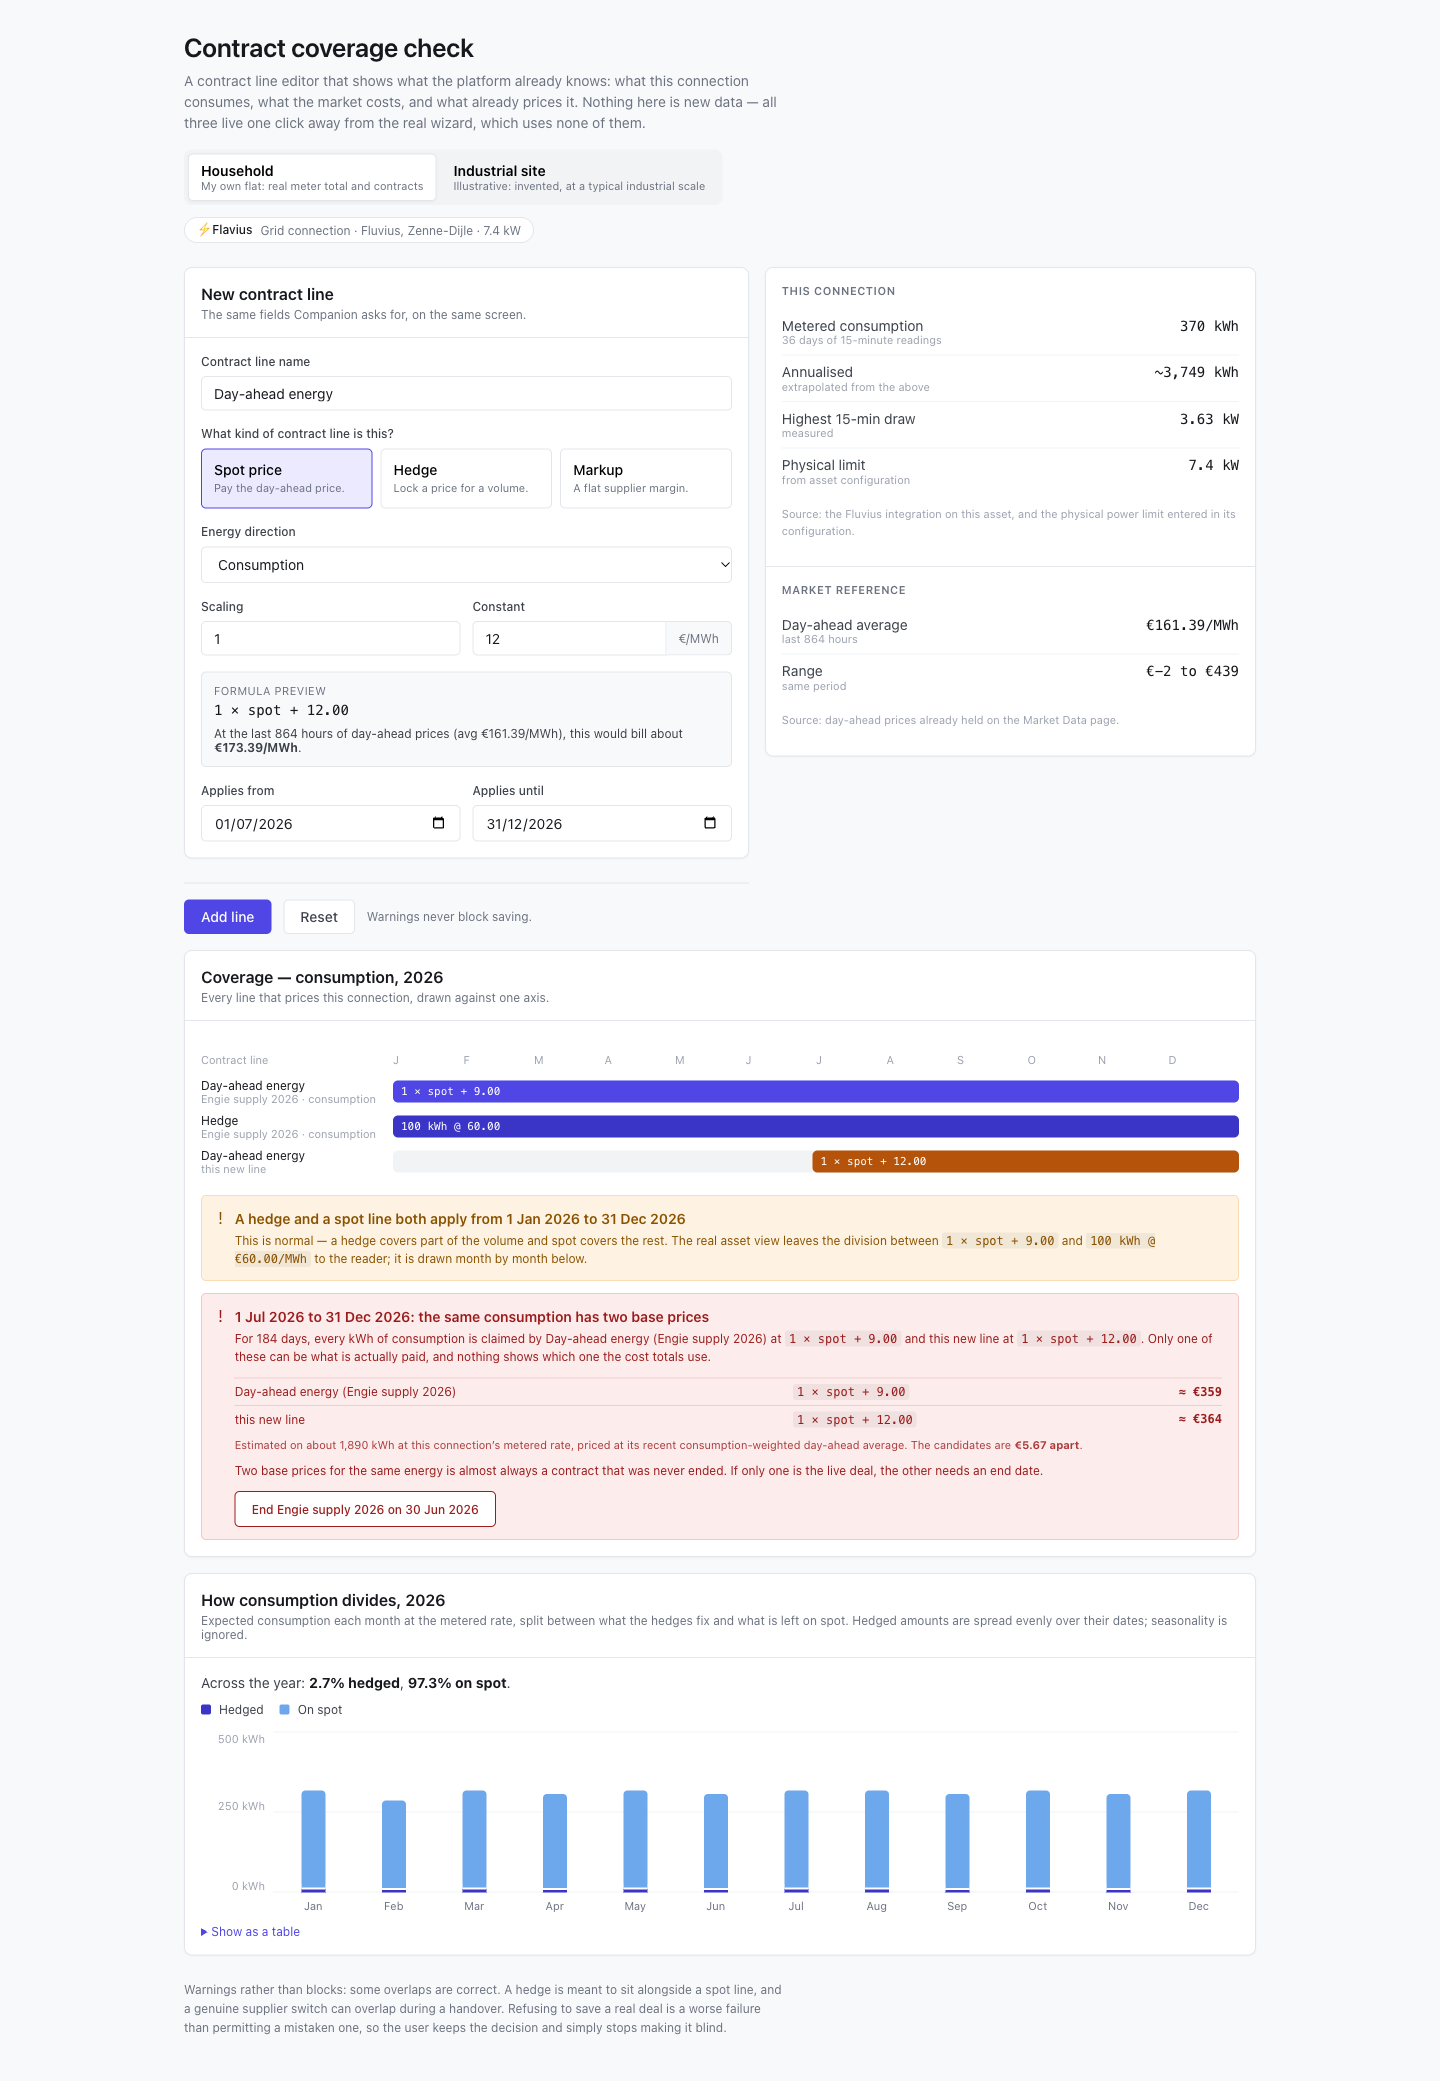
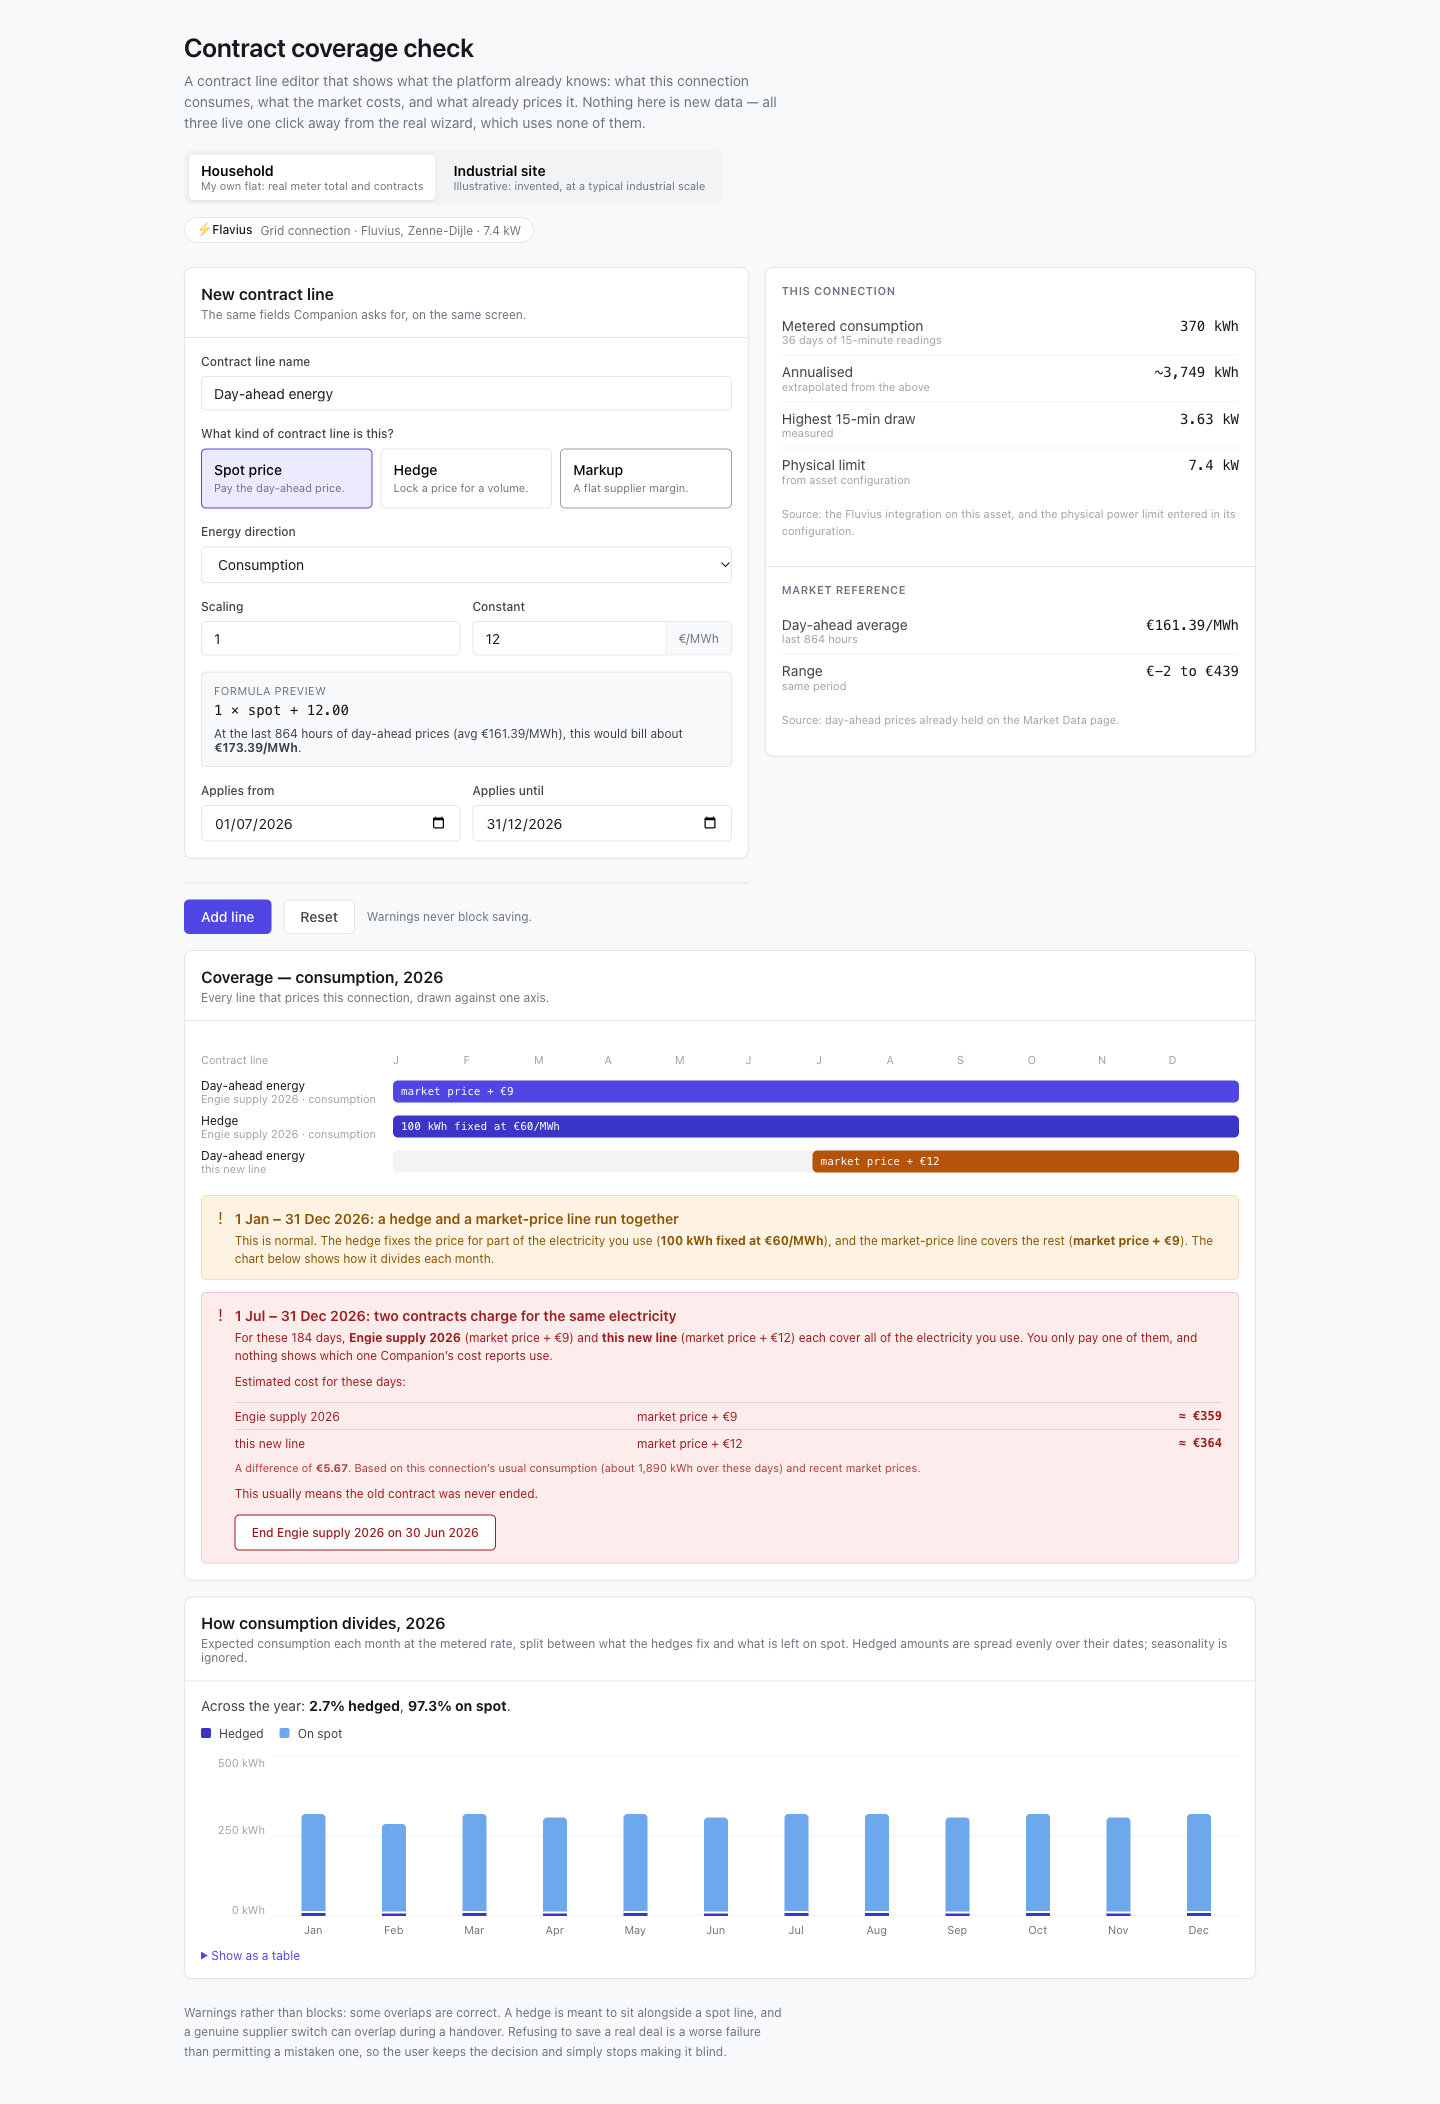
feat: describe prices and conflicts in plain language
Write prices as "market price + €9" instead of "1 × spot + 9.00" in
warnings and on the timeline, and reword the warnings in everyday terms.

diff --git a/src/components/ConflictNotice.tsx b/src/components/ConflictNotice.tsx
@@ -1,13 +1,13 @@
 import { Gap, daysInPeriod } from "../domain/coverage";
 import { PricedOverlap } from "../domain/cost";
 import { Ending, contractOf, suggestEnding } from "../domain/contracts";
-import { Contract, ContractLine } from "../domain/types";
-import { formatEur as eur, formatKwh as kwh } from "./format";
+import { Contract, ContractLine, EnergyDirection, Period } from "../domain/types";
+import { formatEur as eur, formatKwh as kwh, plainPrice } from "./format";
 
 /**
  * Conflict and gap warnings.
  *
- * Three decisions worth stating, because they are the product judgement rather
+ * Four decisions worth stating, because they are the product judgement rather
  * than the code:
  *
  * 1. These are warnings, not errors. Nothing is blocked. Some overlaps are
@@ -22,39 +22,48 @@ import { formatEur as eur, formatKwh as kwh } from "./format";
  * 3. A hedge overlapping a spot line is described differently from two spot
  *    lines overlapping, because they are different situations. The first is
  *    normal but unclear; the second is almost certainly wrong.
+ *
+ * 4. The wording is everyday language: "market price + €9", "charge for the
+ *    same electricity". A warning that needs the contract notation to be
+ *    understood only helps people who would not have made the mistake.
  */
 
-function describeDate(iso: string): string {
+function describeDate(iso: string, withYear = true): string {
   return new Date(`${iso}T00:00:00Z`).toLocaleDateString("en-GB", {
     day: "numeric",
     month: "short",
-    year: "numeric",
+    ...(withYear ? { year: "numeric" } : {}),
     timeZone: "UTC",
   });
 }
 
-function lineLabel(
+/** "1 Jul – 31 Dec 2026", with the year once when both ends share it. */
+function describeRange(period: Period): string {
+  const sameYear = period.from.slice(0, 4) === period.to.slice(0, 4);
+  return `${describeDate(period.from, !sameYear)} – ${describeDate(period.to)}`;
+}
+
+function contractName(
   line: ContractLine,
   draftId: string,
   contracts: Contract[],
 ): string {
   if (line.id === draftId) return "this new line";
-  const contract = contractOf(contracts, line.id);
-  return contract ? `${line.name} (${contract.name})` : line.name;
+  return contractOf(contracts, line.id)?.name ?? line.name;
 }
 
-function priceOf(line: ContractLine): string {
-  if (line.type === "spot") {
-    return `${line.scaling ?? 1} × spot + ${(line.constant ?? 0).toFixed(2)}`;
-  }
-  if (line.type === "hedge") {
-    return `${(line.hedgeVolume ?? 0).toLocaleString("en-GB", {
-      maximumFractionDigits: 1,
-    })} ${line.hedgeVolumeUnit ?? "kWh"} @ €${(
-      line.hedgePrice ?? 0
-    ).toFixed(2)}/MWh`;
-  }
-  return `+€${(line.constant ?? 0).toFixed(2)}/MWh`;
+function electricity(direction: EnergyDirection): string {
+  return direction === "consumption"
+    ? "the electricity you use"
+    : "the electricity you feed into the grid";
+}
+
+/** "A, B and C" */
+function listOf(items: React.ReactNode[]): React.ReactNode[] {
+  return items.flatMap((item, i) => [
+    i === 0 ? "" : i === items.length - 1 ? " and " : ", ",
+    item,
+  ]);
 }
 
 interface Props {
@@ -78,12 +87,10 @@ export function ConflictNotice({
       <div className="notice notice--ok">
         <span className="notice__icon">✓</span>
         <div>
-          <p className="notice__title">
-            No competing prices or uncovered periods
-          </p>
+          <p className="notice__title">Every day has exactly one price</p>
           <p className="notice__body">
-            Every day in this window has exactly one base price for
-            consumption.
+            No two contracts charge for the same electricity, and no day is
+            left without a price.
           </p>
         </div>
       </div>
@@ -94,74 +101,70 @@ export function ConflictNotice({
     <>
       {overlaps.map((overlap, i) => {
         const spotLines = overlap.lines.filter((l) => l.type === "spot");
-        const hedgeOnly =
-          spotLines.length < 2 && overlap.lines.some((l) => l.type === "hedge");
+        const hedgeLines = overlap.lines.filter((l) => l.type === "hedge");
+        const hedgeOnly = spotLines.length < 2 && hedgeLines.length > 0;
         const ending = hedgeOnly ? null : suggestEnding(overlap);
+        const name = (l: ContractLine) => contractName(l, draftId, contracts);
+
+        if (hedgeOnly) {
+          return (
+            <div key={`o-${i}`} className="notice notice--warn">
+              <span className="notice__icon">!</span>
+              <div>
+                <p className="notice__title">
+                  {describeRange(overlap.period)}: a hedge and a market-price
+                  line run together
+                </p>
+                <p className="notice__body">
+                  This is normal. The hedge fixes the price for part of{" "}
+                  {electricity(overlap.direction)} (
+                  {listOf(hedgeLines.map((l) => <strong key={l.id}>{plainPrice(l)}</strong>))}
+                  ), and the market-price line covers the rest (
+                  {listOf(spotLines.map((l) => <strong key={l.id}>{plainPrice(l)}</strong>))}
+                  ). The chart below shows how it divides each month.
+                </p>
+              </div>
+            </div>
+          );
+        }
 
         return (
-          <div
-            key={`o-${i}`}
-            className={hedgeOnly ? "notice notice--warn" : "notice notice--danger"}
-          >
+          <div key={`o-${i}`} className="notice notice--danger">
             <span className="notice__icon">!</span>
             <div>
               <p className="notice__title">
-                {hedgeOnly
-                  ? `A hedge and a spot line both apply from ${describeDate(
-                      overlap.period.from,
-                    )} to ${describeDate(overlap.period.to)}`
-                  : `${describeDate(overlap.period.from)} to ${describeDate(
-                      overlap.period.to,
-                    )}: the same consumption has ${
-                      spotLines.length === 2
-                        ? "two base prices"
-                        : `${spotLines.length} base prices`
-                    }`}
+                {describeRange(overlap.period)}:{" "}
+                {spotLines.length === 2 ? "two" : spotLines.length} contracts
+                charge for the same electricity
               </p>
               <p className="notice__body">
-                {hedgeOnly ? (
-                  <>
-                    This is normal — a hedge covers part of the volume and spot
-                    covers the rest. The real asset view leaves the division
-                    between{" "}
-                    {overlap.lines.map((l, idx) => (
-                      <span key={l.id}>
-                        {idx > 0 && " and "}
-                        <code>{priceOf(l)}</code>
-                      </span>
-                    ))}{" "}
-                    to the reader; it is drawn month by month below.
-                  </>
-                ) : (
-                  <>
-                    For {daysInPeriod(overlap.period)} days, every kWh of{" "}
-                    {overlap.direction} is claimed by{" "}
-                    {spotLines.map((l, idx) => (
-                      <span key={l.id}>
-                        {idx > 0 && (idx === spotLines.length - 1 ? " and " : ", ")}
-                        {lineLabel(l, draftId, contracts)} at{" "}
-                        <code>{priceOf(l)}</code>
-                      </span>
-                    ))}
-                    . Only one of these can be what is actually paid, and
-                    nothing shows which one the cost totals use.
-                  </>
-                )}
+                For these {daysInPeriod(overlap.period)} days,{" "}
+                {listOf(
+                  spotLines.map((l) => (
+                    <span key={l.id}>
+                      <strong>{name(l)}</strong> ({plainPrice(l)})
+                    </span>
+                  )),
+                )}{" "}
+                each cover all of {electricity(overlap.direction)}. You only
+                pay one of them, and nothing shows which one Companion’s cost
+                reports use.
               </p>
 
-              {!hedgeOnly && overlap.cost && (
+              {overlap.cost && (
                 <>
+                  <p className="notice__body">
+                    Estimated cost for these days:
+                  </p>
                   <table className="costs">
                     <tbody>
                       {overlap.cost.lines.map((c) => {
                         const line = spotLines.find((l) => l.id === c.lineId);
                         return (
                           <tr key={c.lineId}>
-                            <td>
-                              {line ? lineLabel(line, draftId, contracts) : c.lineId}
-                            </td>
+                            <td>{line ? name(line) : c.lineId}</td>
                             <td className="costs__formula">
-                              {line && <code>{priceOf(line)}</code>}
+                              {line && plainPrice(line)}
                             </td>
                             <td className="costs__eur">≈ {eur(c.costEur)}</td>
                           </tr>
@@ -170,21 +173,18 @@ export function ConflictNotice({
                     </tbody>
                   </table>
                   <p className="notice__fine">
-                    Estimated on about {kwh(overlap.cost.expectedKwh)} at this
-                    connection’s metered rate, priced at its recent
-                    consumption-weighted day-ahead average. The candidates are{" "}
-                    <strong>{eur(overlap.cost.spreadEur)} apart</strong>.
+                    A difference of{" "}
+                    <strong>{eur(overlap.cost.spreadEur)}</strong>. Based on
+                    this connection’s usual consumption (about{" "}
+                    {kwh(overlap.cost.expectedKwh)} over these days) and recent
+                    market prices.
                   </p>
                 </>
               )}
 
-              {!hedgeOnly && (
-                <p className="notice__body">
-                  Two base prices for the same energy is almost always a
-                  contract that was never ended. If only one is the live deal,
-                  the other needs an end date.
-                </p>
-              )}
+              <p className="notice__body">
+                This usually means the old contract was never ended.
+              </p>
 
               {ending && (
                 <button
@@ -210,14 +210,13 @@ export function ConflictNotice({
           <span className="notice__icon">!</span>
           <div>
             <p className="notice__title">
-              {describeDate(gap.period.from)} to {describeDate(gap.period.to)}{" "}
-              has no price
+              {describeRange(gap.period)}: no contract prices this electricity
             </p>
             <p className="notice__body">
-              {daysInPeriod(gap.period)} days of {gap.direction} are not covered
-              by any spot or hedge line. The cost engine has nothing to compute
-              for those days, so they will be missing from cost totals rather
-              than flagged in them.
+              For these {daysInPeriod(gap.period)} days, no market-price or
+              hedge line covers {electricity(gap.direction)}. Companion has
+              nothing to calculate a cost from, so these days are left out of
+              cost totals without a warning.
             </p>
           </div>
         </div>

diff --git a/src/components/CoverageTimeline.tsx b/src/components/CoverageTimeline.tsx
@@ -1,6 +1,7 @@
 import { Contract, ContractLine, Period } from "../domain/types";
 import { daysInPeriod, periodBounds } from "../domain/coverage";
 import { contractOf } from "../domain/contracts";
+import { plainPrice } from "./format";
 
 /**
  * Coverage over time.
@@ -33,20 +34,6 @@ function spanClass(line: ContractLine, isNew: boolean): string {
   if (line.type === "hedge") return "timeline__span timeline__span--hedge";
   if (line.type === "markup") return "timeline__span timeline__span--markup";
   return "timeline__span";
-}
-
-function priceLabel(line: ContractLine): string {
-  if (line.type === "spot") {
-    return `${line.scaling ?? 1} × spot + ${(line.constant ?? 0).toFixed(2)}`;
-  }
-  if (line.type === "hedge") {
-    return `${(line.hedgeVolume ?? 0).toLocaleString("en-GB", {
-      maximumFractionDigits: 1,
-    })} ${line.hedgeVolumeUnit ?? "kWh"} @ ${(
-      line.hedgePrice ?? 0
-    ).toFixed(2)}`;
-  }
-  return `+${(line.markup ?? line.constant ?? 0).toFixed(2)} €/MWh`;
 }
 
 interface Props {
@@ -104,7 +91,7 @@ export function CoverageTimeline({
                     line.period,
                   )} days)`}
                 >
-                  {width > 0.22 ? priceLabel(line) : ""}
+                  {width > 0.22 ? plainPrice(line) : ""}
                 </div>
               )}
             </div>

diff --git a/src/components/format.ts b/src/components/format.ts
@@ -1,4 +1,37 @@
+import { ContractLine } from "../domain/types";
+
 /** Display formatting shared by the components. */
+
+/** €9, or €6.50 when there are cents. */
+function euros(n: number): string {
+  return Number.isInteger(n) ? `€${n}` : `€${n.toFixed(2)}`;
+}
+
+/**
+ * A line's price in words: "market price + €9" rather than the form's
+ * "1 × spot + 9.00". The form keeps Companion's notation; warnings and the
+ * timeline have to be understood without knowing it.
+ */
+export function plainPrice(line: ContractLine): string {
+  if (line.type === "spot") {
+    const scaling = line.scaling ?? 1;
+    const constant = line.constant ?? 0;
+    const base = scaling === 1 ? "market price" : `${scaling} × market price`;
+    if (constant === 0) return base;
+    return constant > 0
+      ? `${base} + ${euros(constant)}`
+      : `${base} − ${euros(-constant)}`;
+  }
+  if (line.type === "hedge") {
+    const volume = (line.hedgeVolume ?? 0).toLocaleString("en-GB", {
+      maximumFractionDigits: 1,
+    });
+    return `${volume} ${line.hedgeVolumeUnit ?? "kWh"} fixed at ${euros(
+      line.hedgePrice ?? 0,
+    )}/MWh`;
+  }
+  return `+${euros(line.markup ?? line.constant ?? 0)}/MWh`;
+}
 
 export type EnergyUnit = "kWh" | "MWh";
 
